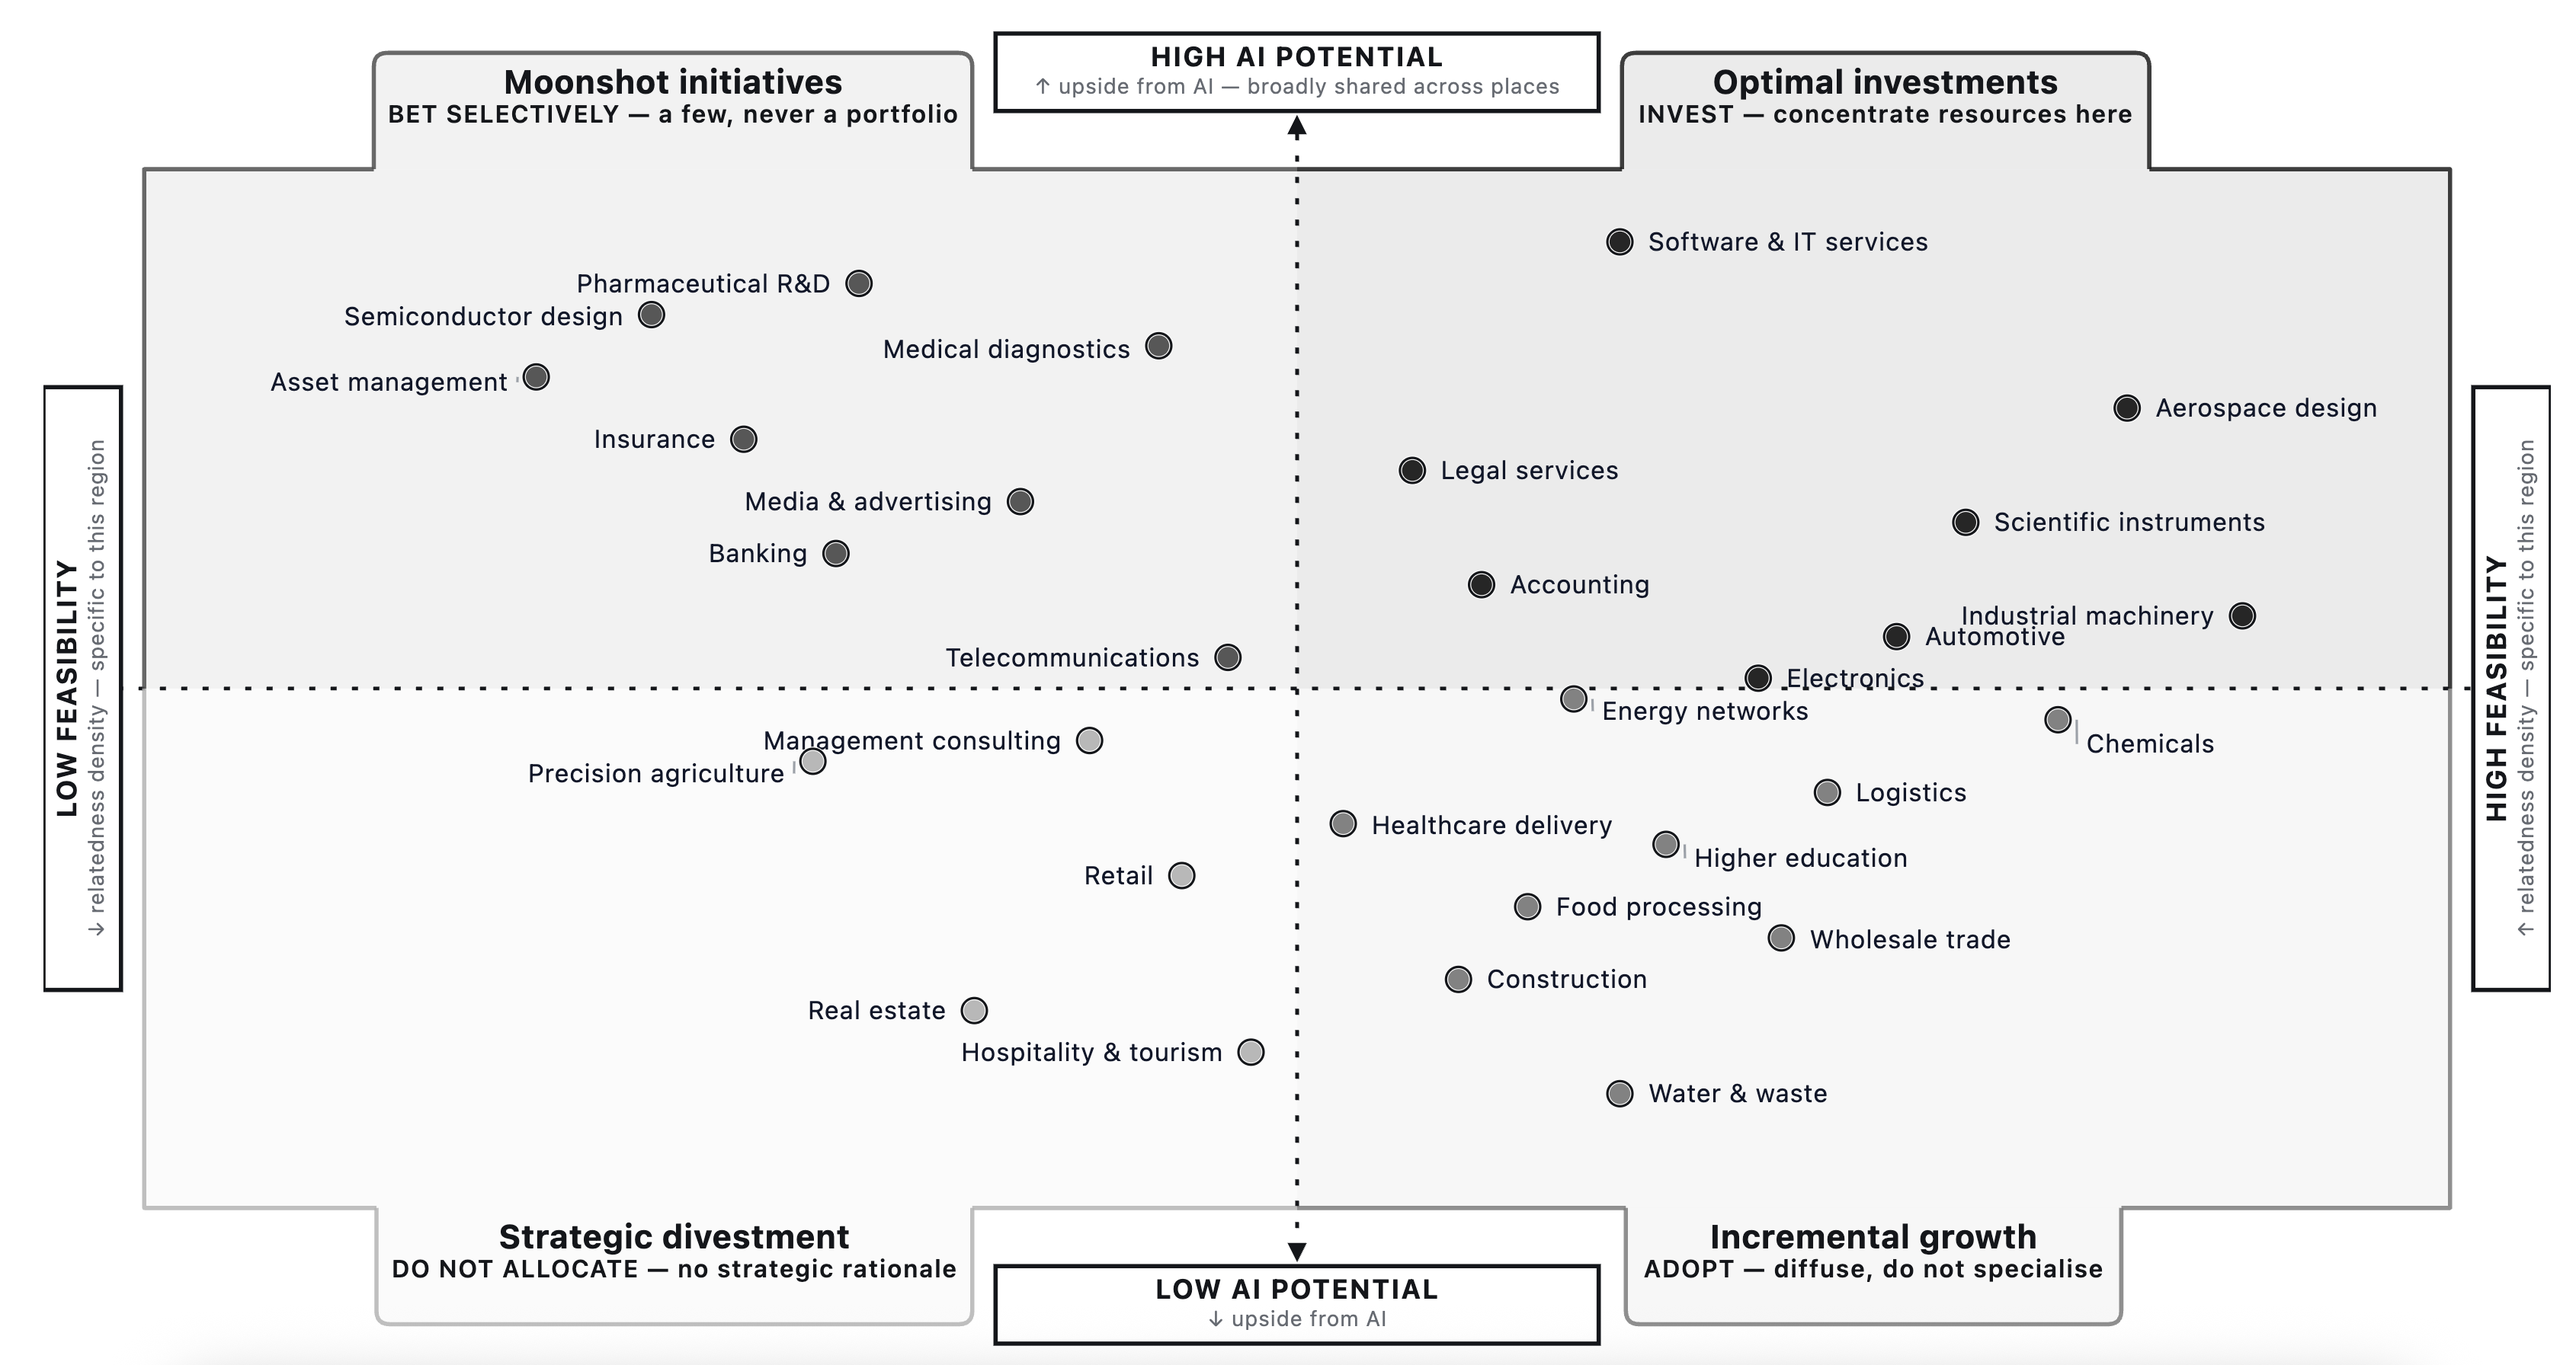
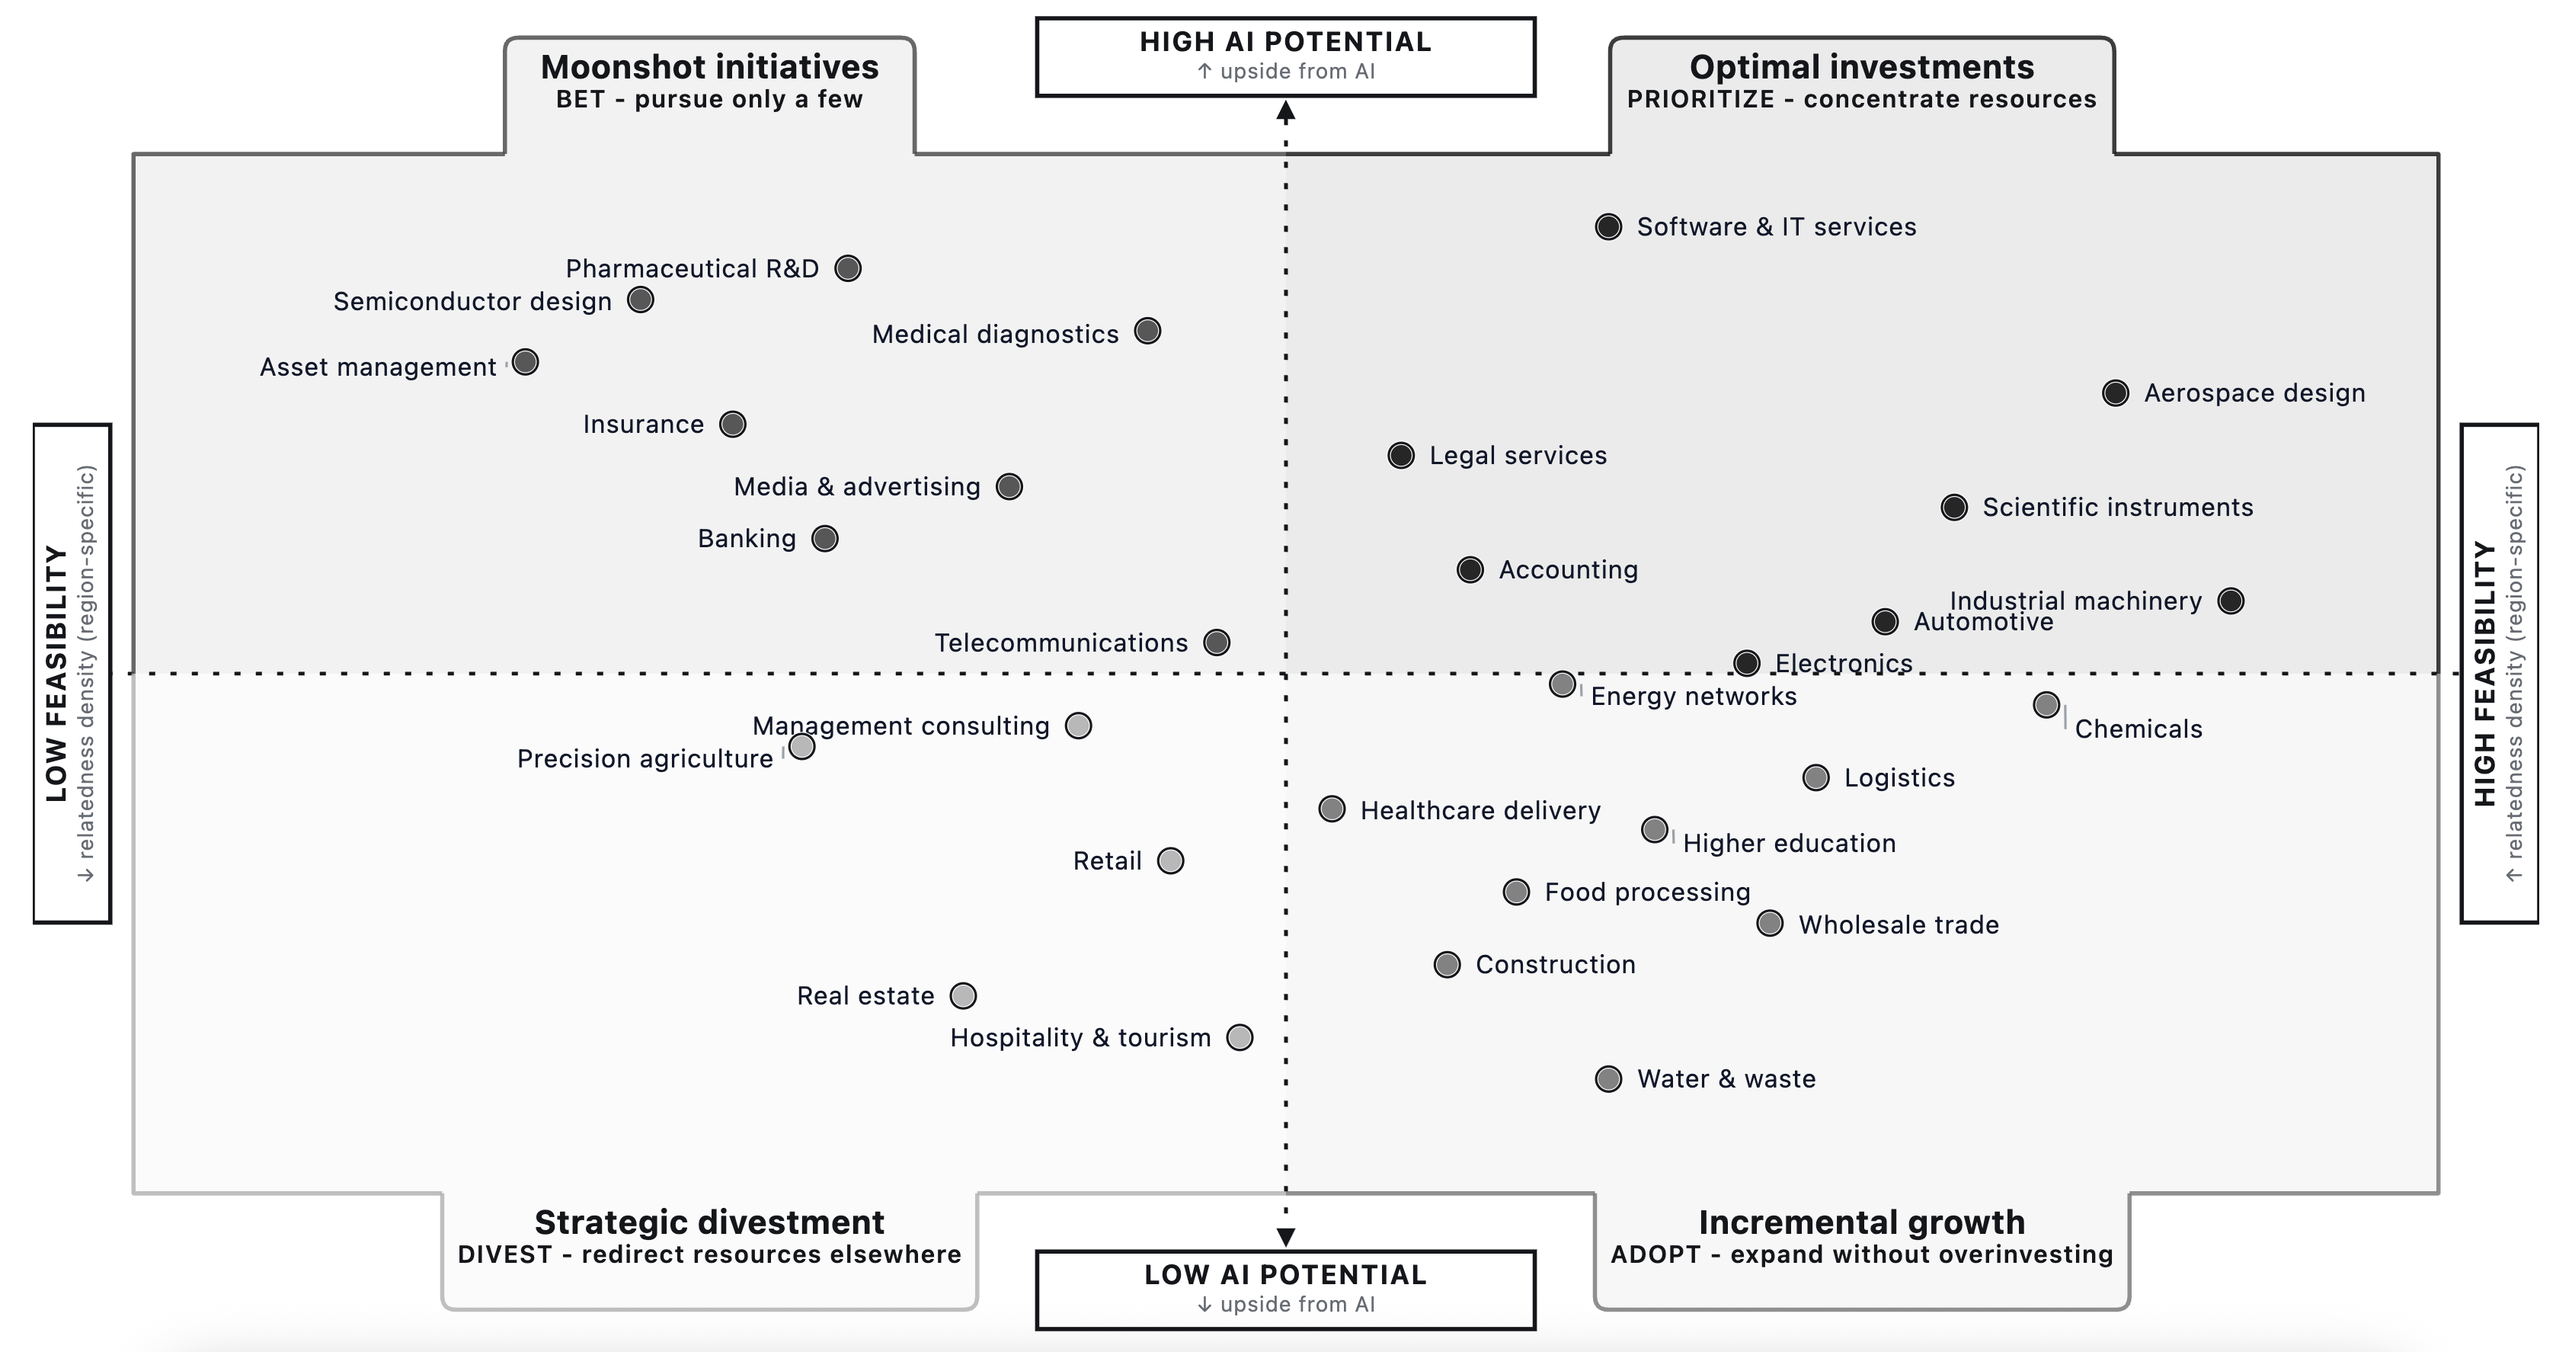
up

diff --git a/ceps/microsoft-aiei/viz/figure-12-5-smart-framework.html b/ceps/microsoft-aiei/viz/figure-12-5-smart-framework.html
@@ -149,19 +149,19 @@ const S = [
 ];
 
 const QUAD = [
-  { name: 'Optimal investments',  do: 'INVEST — concentrate resources here', c: 'var(--opt)' },
-  { name: 'Moonshot initiatives', do: 'BET SELECTIVELY — a few, never a portfolio', c: 'var(--moon)' },
-  { name: 'Incremental growth',   do: 'ADOPT — diffuse, do not specialise', c: 'var(--incr)' },
-  { name: 'Strategic divestment', do: 'DO NOT ALLOCATE — no strategic rationale', c: 'var(--div)' }
+{ name: 'Optimal investments',  do: 'PRIORITIZE - concentrate resources', c: 'var(--opt)' },
+{ name: 'Moonshot initiatives', do: 'BET - pursue only a few', c: 'var(--moon)' },
+{ name: 'Incremental growth',   do: 'ADOPT - expand without overinvesting', c: 'var(--incr)' },
+{ name: 'Strategic divestment', do: 'DIVEST - redirect resources elsewhere', c: 'var(--div)' }
 ];
 const QTINT = ['rgba(20,22,26,.085)', 'rgba(20,22,26,.055)', 'rgba(20,22,26,.035)', 'rgba(20,22,26,.015)'];
 const qOf = (ap, rd) => ap >= MY ? (rd >= MX ? QUAD[0] : QUAD[1]) : (rd >= MX ? QUAD[2] : QUAD[3]);
 
 const AXBOX = [
-  ['HIGH AI POTENTIAL', '↑ upside from AI — broadly shared across places'],
+  ['HIGH AI POTENTIAL', '↑ upside from AI'],
   ['LOW AI POTENTIAL',  '↓ upside from AI'],
-  ['LOW FEASIBILITY',   '↓ relatedness density — specific to this region'],
-  ['HIGH FEASIBILITY',  '↑ relatedness density — specific to this region']
+  ['LOW FEASIBILITY',   '↓ relatedness density (region-specific)'],
+  ['HIGH FEASIBILITY',  '↑ relatedness density (region-specific)']
 ];
 const NOTE = '';
 
